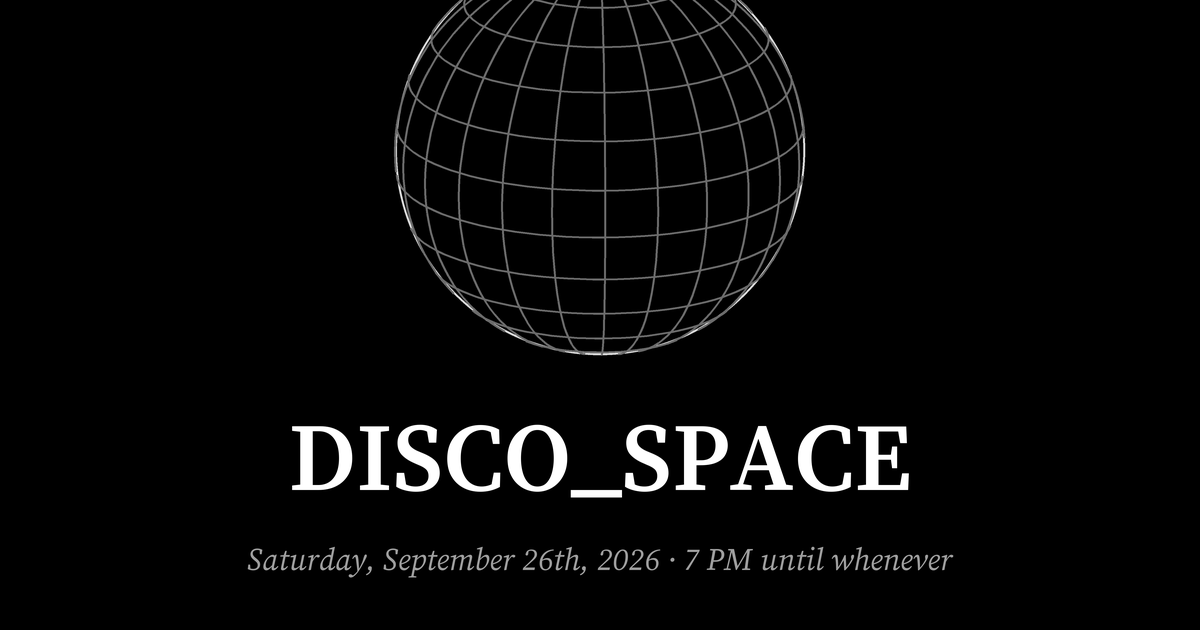
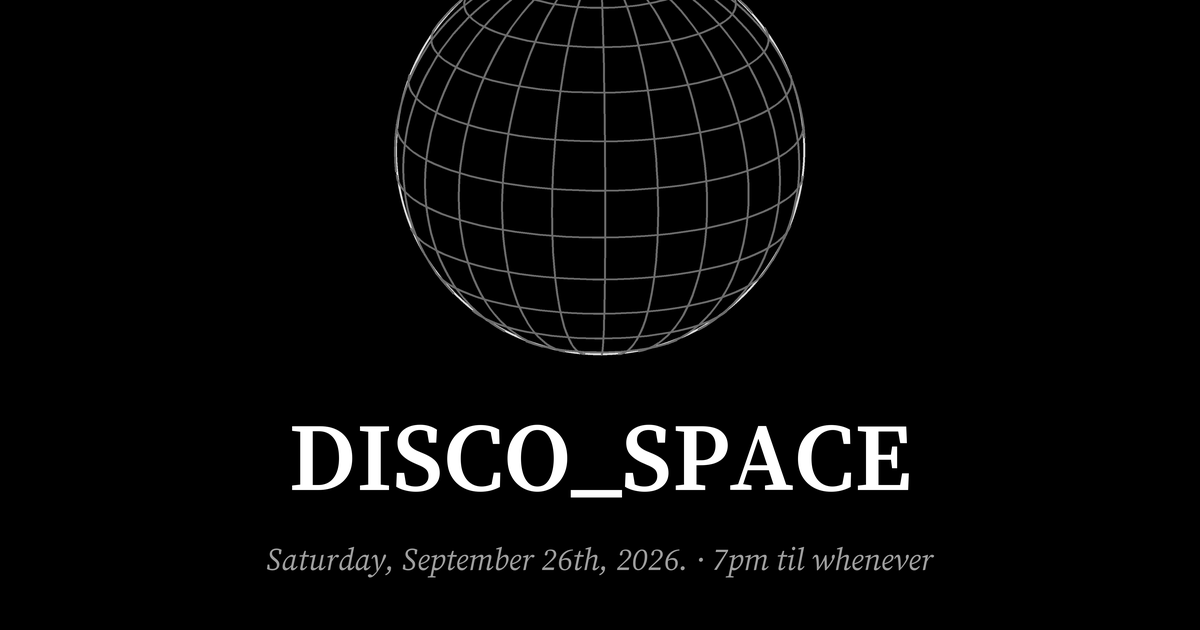
26: the landing sends your dot up to the ball instead of spinning a second one; Sha at 11, doors at 7, 2-3 unannounced; Sha's alcohol copy verbatim; venue photo uncropped; no rules beside section titles

Changed region(s): [[0.185, 0.8746, 0.8017, 0.9349]]

diff --git a/26/index.html b/26/index.html
@@ -79,9 +79,8 @@ section:last-of-type{padding-bottom:5.5rem}
 .kicker{
   font-family:var(--serif);font-weight:600;font-size:clamp(1.3rem,5vw,1.6rem);
   letter-spacing:.01em;color:rgba(255,255,255,.92);
-  margin:0 0 1.5rem;display:flex;align-items:baseline;gap:1rem;
+  margin:0 0 1.5rem;
 }
-.kicker::after{content:"";flex:1;height:1px;background:var(--hair);transform:translateY(-.18em)}
 .reveal{opacity:0;transform:translateY(16px);transition:opacity .9s var(--ease),transform .9s var(--ease)}
 .reveal.in{opacity:1;transform:none}
 @media (prefers-reduced-motion:reduce){.reveal{opacity:1;transform:none;transition:none}}
@@ -101,6 +100,8 @@ section:last-of-type{padding-bottom:5.5rem}
 .slot .t{font-family:var(--label);font-size:.74rem;letter-spacing:.1em;color:var(--dim);white-space:nowrap;font-variant-numeric:tabular-nums}
 .slot .who{font-size:1.05rem;font-weight:500}
 .slot .who.tba{color:var(--faint);letter-spacing:.45em}
+
+.doors{font-size:.95rem;font-style:italic;color:var(--dim);margin:-.4rem 0 1.6rem}
 
 /* rsvp */
 .field{margin:0 0 1.25rem}
@@ -167,9 +168,20 @@ input:-webkit-autofill,input:-webkit-autofill:hover,input:-webkit-autofill:focus
 #ring:focus-visible{border-radius:50%;box-shadow:0 0 0 1px var(--white)}
 .ringhint{font-family:var(--serif);font-style:italic;font-size:.95rem;color:var(--faint);max-width:11rem;line-height:1.5;transition:color .3s var(--ease)}
 .ringwrap.armed .ringhint{color:var(--dim)}
+/* the landing: everything lets go together, nothing snaps */
+#fields{overflow:hidden;transition:max-height .85s var(--ease),opacity .5s var(--ease),transform .6s var(--ease)}
+#fields.gone{opacity:0;transform:translateY(-10px)}
+.ringwrap{transition:opacity .5s var(--ease),max-height .75s var(--ease),margin-top .75s var(--ease)}
+.ringwrap.gone{opacity:0;max-height:0;margin-top:0;overflow:hidden;pointer-events:none}
+#ring{transition:opacity .5s var(--ease)}
+/* the answer, carried up to the ball */
+.spark{position:fixed;left:0;top:0;width:9px;height:9px;margin:-4.5px 0 0 -4.5px;border-radius:50%;
+  background:var(--white);box-shadow:0 0 14px 4px rgba(255,255,255,.45);z-index:6;pointer-events:none}
 .form-note{font-family:var(--label);font-size:.66rem;color:var(--faint);margin-top:1rem;min-height:1em;letter-spacing:.08em}
-.done{display:none;padding:1.2rem 0 .4rem}
+.done{display:none;padding:1.2rem 0 .4rem;opacity:0;transform:translateY(12px);
+  transition:opacity .9s var(--ease),transform .9s var(--ease)}
 .done.show{display:block}
+.done.lit{opacity:1;transform:none}
 .done .big{font-family:var(--serif);font-style:italic;font-size:1.6rem;font-weight:500;margin:0 0 .5rem}
 .done .small{font-family:var(--label);font-size:.68rem;color:var(--dim);letter-spacing:.14em;text-transform:uppercase}
 
@@ -184,7 +196,7 @@ input:-webkit-autofill,input:-webkit-autofill:hover,input:-webkit-autofill:focus
 
 /* where */
 .where .venue-row{display:flex;align-items:center;gap:1rem;margin:0 0 .6rem}
-.where .pfp{width:52px;height:52px;border-radius:50%;flex:0 0 auto;border:1px solid var(--hair)}
+.where .pfp{width:56px;height:56px;flex:0 0 auto;display:block}
 .where .venue{font-size:1.6rem;font-weight:600;letter-spacing:.02em;margin:0}
 .where .addr{font-size:1rem;font-style:italic;color:var(--dim);line-height:1.7;margin:0 0 2rem}
 .links{display:grid;grid-template-columns:repeat(2,auto);justify-content:center;justify-items:center;column-gap:2.4rem;row-gap:1.1rem;padding-top:.4rem}
@@ -208,7 +220,7 @@ input:-webkit-autofill,input:-webkit-autofill:hover,input:-webkit-autofill:focus
 <header class="hero">
   <div class="hero-text">
     <h1>DISCO_SPACE</h1>
-    <p class="hero-sub">Saturday, September 26th, 2026<br>7 PM until whenever</p>
+    <p class="hero-sub">Saturday, September 26th, 2026.<br>7pm til whenever</p>
   </div>
 </header>
 
@@ -217,12 +229,13 @@ input:-webkit-autofill,input:-webkit-autofill:hover,input:-webkit-autofill:focus
     <p class="kicker">1. The night</p>
     <p>Twenty-six years in, one thing has held: everything I love about music routes back to the dance floor. Disco is where the roads meet — the strings and the drum machines, Philadelphia and Munich, the loft and the garage.</p>
     <p>So for my birthday we walk the whole territory in one night: the seventies records that started it, and the Euro, Italo, hi-NRG and electro forms they became when the lights changed.</p>
-    <p class="aside">There will be alcohol. Bring more if you like — or whatever else moves you. And bring your people: the floor is big, and the invitation travels.</p>
+    <p class="aside">There will indeed be alcohol and other notable substances available for your indulgence, but do bring more... the more the merrier. And there will indeed be people, but do bring more! The more the merrier!</p>
     <p class="dress">Wear something that catches the light.</p>
   </section>
 
   <section class="reveal" id="lineup">
     <p class="kicker">2. Lineup</p>
+    <p class="doors">Doors at 7 — records on, nobody behind them yet.</p>
     <div id="slots"></div>
   </section>
 
@@ -325,9 +338,9 @@ const APPS_SCRIPT_URL = "https://script.google.com/macros/s/AKfycbyReQmyfvuJOzD4
 
 /* Lineup — fill names as they confirm; null renders as a quiet redaction. */
 const SLOTS = [
-  { t: "7—8", who: null }, { t: "8—9", who: null }, { t: "9—10", who: null },
-  { t: "10—11", who: null }, { t: "11—12", who: null }, { t: "12—1", who: null },
-  { t: "1—2", who: null },
+  { t: "8—9", who: null }, { t: "9—10", who: null }, { t: "10—11", who: null },
+  { t: "11—12", who: "SHA FRASIER" }, { t: "12—1", who: null }, { t: "1—2", who: null },
+  { t: "2—3", who: "???" },
 ];
 
 /* ═══ The ball — a line drawing, not an object ═══
@@ -654,23 +667,19 @@ document.getElementById("slots").innerHTML = SLOTS.map(s =>
   }));
 
   const LINES = p =>
-    p >= 100 ? ["See you under the ball.", "7 PM · 5-84 Woodward Ave"] :
+    p >= 100 ? ["We look forward to seeing you.", "7 PM · 5-84 Woodward Ave"] :
     p > 0   ? ["The door stays open.", "Slide it to 100 whenever you're sure"] :
               ["You'll be missed.", "The ball keeps a light on for you"];
 
-  /* ═══ the ring: drag the dot all the way around to send ═══ */
-  const ring = $("ring"), TAU = Math.PI * 2, TILT = 0.32;
+  /* ═══ the ring: drag the dot all the way around to confirm ═══ */
+  const ring = $("ring"), TAU = Math.PI * 2;
   const rctx = ring.getContext("2d");
-  const rDPR = Math.min(2, devicePixelRatio || 1), RS = 128, RAD = 52, CC = RS / 2;
+  const rDPR = Math.min(3, devicePixelRatio || 1), RS = 128, RAD = 52, CC = RS / 2;
   ring.width = RS * rDPR; ring.height = RS * rDPR;
   ring.style.width = ring.style.height = RS + "px";
   const rReduced = matchMedia("(prefers-reduced-motion: reduce)").matches;
-  const rP = (phi, lam) => {
-    const x = Math.cos(phi) * Math.sin(lam), y = Math.sin(phi), z = Math.cos(phi) * Math.cos(lam);
-    return { x, y: y * Math.cos(TILT) - z * Math.sin(TILT), z: y * Math.sin(TILT) + z * Math.cos(TILT) };
-  };
 
-  let prog = 0, dragging = false, lastA = 0, state = "idle", morphT = 0, autoRun = false;
+  let prog = 0, dragging = false, lastA = 0, state = "idle", autoRun = false;
   const dotXY = () => {
     const a = -Math.PI / 2 + prog * TAU;
     return { x: CC + Math.cos(a) * RAD, y: CC + Math.sin(a) * RAD };
@@ -731,16 +740,7 @@ document.getElementById("slots").innerHTML = SLOTS.map(s =>
         }),
       });
       if (!res.ok) throw new Error(res.status);
-      /* it went through: the fields fold away, the circle becomes the ball,
-         and the big one upstairs gets its moment too */
-      $("fields").style.display = "none";
-      $("ringhint").style.display = "none";
-      note.textContent = "";
-      state = "morph"; morphT = performance.now();
-      window.__discoMoment && window.__discoMoment();
-      const [big, small] = LINES(pct);
-      $("done-big").textContent = big; $("done-small").textContent = small;
-      $("done").classList.add("show");
+      land();
       loadList();
     } catch {
       note.textContent = "Something slipped — try once more?";
@@ -748,61 +748,78 @@ document.getElementById("slots").innerHTML = SLOTS.map(s =>
     }
   }
 
-  function drawRing(now) {
+  /* The landing. Rather than a second ball spinning against the first, the dot
+     you carried around simply leaves — it rises to the ball overhead, and the
+     room answers when it arrives. Meanwhile the form folds itself away and the
+     confirmation surfaces in its place, all on one clock. */
+  function land() {
+    state = "sent";
+    note.textContent = "";
+
+    const rr = ring.getBoundingClientRect(), d = dotXY();
+    const spark = document.createElement("div");
+    spark.className = "spark";
+    spark.style.transform = "translate(" + (rr.left + d.x) + "px," + (rr.top + d.y) + "px)";
+    document.body.appendChild(spark);
+
+    const FLIGHT = rReduced ? 1 : 950;
+    requestAnimationFrame(() => {
+      const c = window.__ballC ? window.__ballC() : { x: innerWidth / 2, y: 60 };
+      spark.style.transition =
+        "transform " + FLIGHT + "ms cubic-bezier(.45,0,.15,1), opacity 260ms ease " + (FLIGHT - 260) + "ms";
+      spark.style.transform = "translate(" + c.x + "px," + c.y + "px) scale(.35)";
+      spark.style.opacity = "0";
+    });
+    setTimeout(() => {
+      spark.remove();
+      window.__discoMoment && window.__discoMoment();
+    }, FLIGHT);
+
+    ring.style.opacity = "0";
+
+    /* max-height from a measured value so the fold is smooth at any content height */
+    const f = $("fields");
+    f.style.maxHeight = f.scrollHeight + "px";
+    requestAnimationFrame(() => {
+      f.classList.add("gone");
+      f.style.maxHeight = "0px";
+    });
+
+    /* Hold the view on the ring while the form folds away above it. Without
+       this the page shortens under you and the confirmation lands off-screen. */
+    const anchor = $("ringwrap"), keep = anchor.getBoundingClientRect().top;
+    const until = performance.now() + 1000;
+    (function hold() {
+      const drift = anchor.getBoundingClientRect().top - keep;
+      if (Math.abs(drift) > 0.5) scrollBy(0, drift);
+      if (performance.now() < until) requestAnimationFrame(hold);
+    })();
+    setTimeout(() => $("ringwrap").classList.add("gone"), 320);
+
+    const [big, small] = LINES(pct);
+    $("done-big").textContent = big; $("done-small").textContent = small;
+    setTimeout(() => {
+      $("fields").style.display = "none";
+      $("done").classList.add("show");
+      requestAnimationFrame(() => $("done").classList.add("lit"));
+    }, 780);
+  }
+
+  function drawRing() {
     rctx.setTransform(rDPR, 0, 0, rDPR, 0, 0);
     rctx.clearRect(0, 0, RS, RS);
-    const m = state === "morph" ? Math.min(1, (now - morphT) / (rReduced ? 1 : 900)) : 0;
-
-    if (m < 1) {
-      const fade = 1 - m;
-      rctx.lineWidth = 1;
-      rctx.strokeStyle = "rgba(255,255,255," + (0.25 * fade).toFixed(3) + ")";
-      rctx.beginPath(); rctx.arc(CC, CC, RAD, 0, TAU); rctx.stroke();
-      if (state === "idle" || state === "sending") {
-        if (prog > 0.002) {
-          rctx.lineWidth = 2;
-          rctx.strokeStyle = "rgba(255,255,255," + (0.9 * fade).toFixed(3) + ")";
-          rctx.beginPath(); rctx.arc(CC, CC, RAD, -Math.PI / 2, -Math.PI / 2 + prog * TAU); rctx.stroke();
-        }
-        const d = dotXY(), armed = !!ready();
-        rctx.fillStyle = "rgba(255,255,255," + ((armed ? 0.95 : 0.35) * fade).toFixed(3) + ")";
-        rctx.beginPath(); rctx.arc(d.x, d.y, 5, 0, TAU); rctx.fill();
-      }
+    if (state === "sent") return;
+    rctx.lineWidth = 1;
+    rctx.strokeStyle = "rgba(255,255,255,.25)";
+    rctx.beginPath(); rctx.arc(CC, CC, RAD, 0, TAU); rctx.stroke();
+    if (prog > 0.002) {
+      rctx.lineWidth = 2;
+      rctx.strokeStyle = "rgba(255,255,255,.9)";
+      rctx.beginPath(); rctx.arc(CC, CC, RAD, -Math.PI / 2, -Math.PI / 2 + prog * TAU); rctx.stroke();
     }
-
-    if (m > 0) {
-      /* the wireframe ball, drawn in as the circle lets go */
-      const rot = window.__ballRot ? window.__ballRot() : now * 0.00014;
-      const rr = RAD, a = m;
-      rctx.lineWidth = 1;
-      rctx.strokeStyle = "rgba(255,255,255," + (0.85 * a).toFixed(3) + ")";
-      rctx.beginPath(); rctx.arc(CC, CC, rr, 0, TAU); rctx.stroke();
-      rctx.strokeStyle = "rgba(255,255,255," + (0.4 * a).toFixed(3) + ")";
-      for (let li = 1; li <= 8; li++) {
-        const phi = -Math.PI / 2 + (li / 9) * Math.PI;
-        rctx.beginPath();
-        let started = false;
-        for (let i = 0; i <= 64; i++) {
-          const q = rP(phi, (i / 64) * TAU + rot);
-          if (q.z < -0.02) { started = false; continue; }
-          const X = CC + q.x * rr, Y = CC - q.y * rr;
-          started ? rctx.lineTo(X, Y) : (rctx.moveTo(X, Y), started = true);
-        }
-        rctx.stroke();
-      }
-      for (let mi = 0; mi < 16; mi++) {
-        const lam0 = (mi / 16) * TAU + rot;
-        rctx.beginPath();
-        let started = false;
-        for (let i = 0; i <= 48; i++) {
-          const q = rP(-Math.PI / 2 + (i / 48) * Math.PI, lam0);
-          if (q.z < -0.02) { started = false; continue; }
-          const X = CC + q.x * rr, Y = CC - q.y * rr;
-          started ? rctx.lineTo(X, Y) : (rctx.moveTo(X, Y), started = true);
-        }
-        rctx.stroke();
-      }
-    }
+    const d = dotXY();
+    rctx.fillStyle = "rgba(255,255,255," + (ready() ? 0.95 : 0.35) + ")";
+    rctx.beginPath(); rctx.arc(d.x, d.y, 5, 0, TAU); rctx.fill();
   }
 
   let rLast = performance.now();
@@ -818,7 +835,7 @@ document.getElementById("slots").innerHTML = SLOTS.map(s =>
         prog = Math.max(0, prog - dt * 0.0016);
       }
     }
-    drawRing(now);
+    drawRing();
     requestAnimationFrame(rTick);
   })();
 
